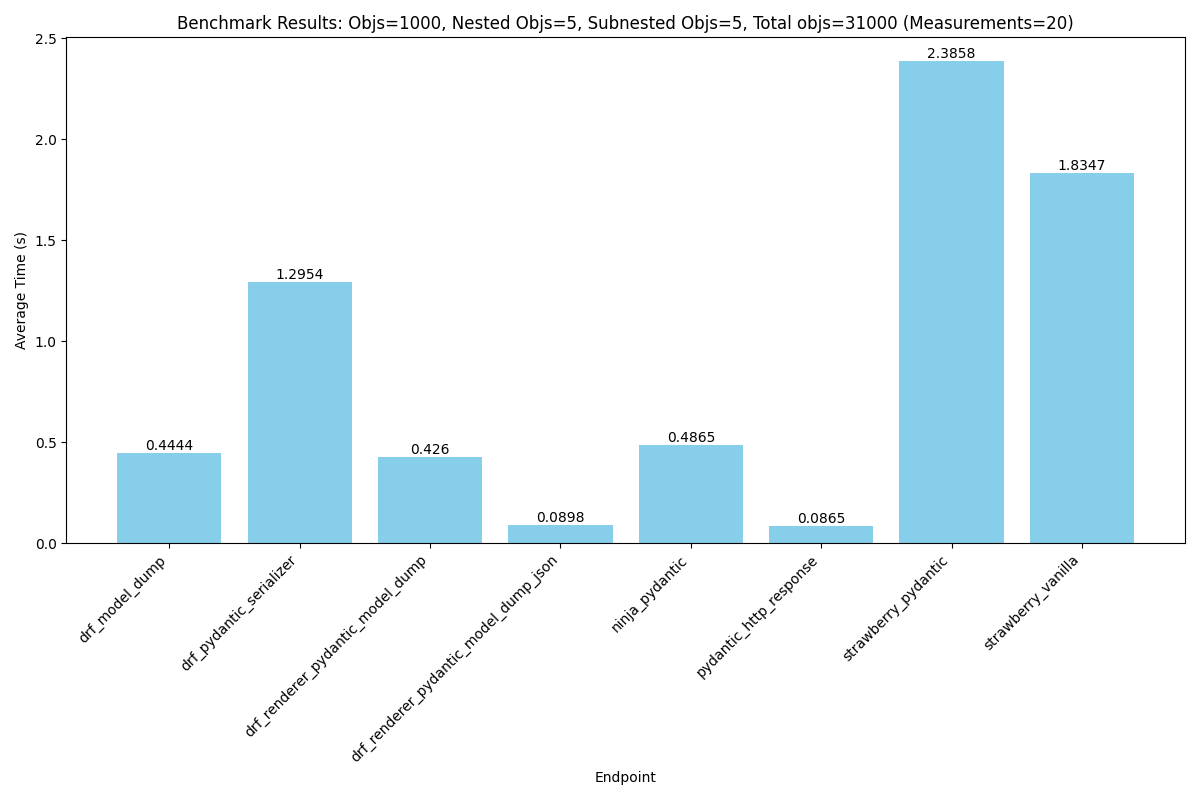
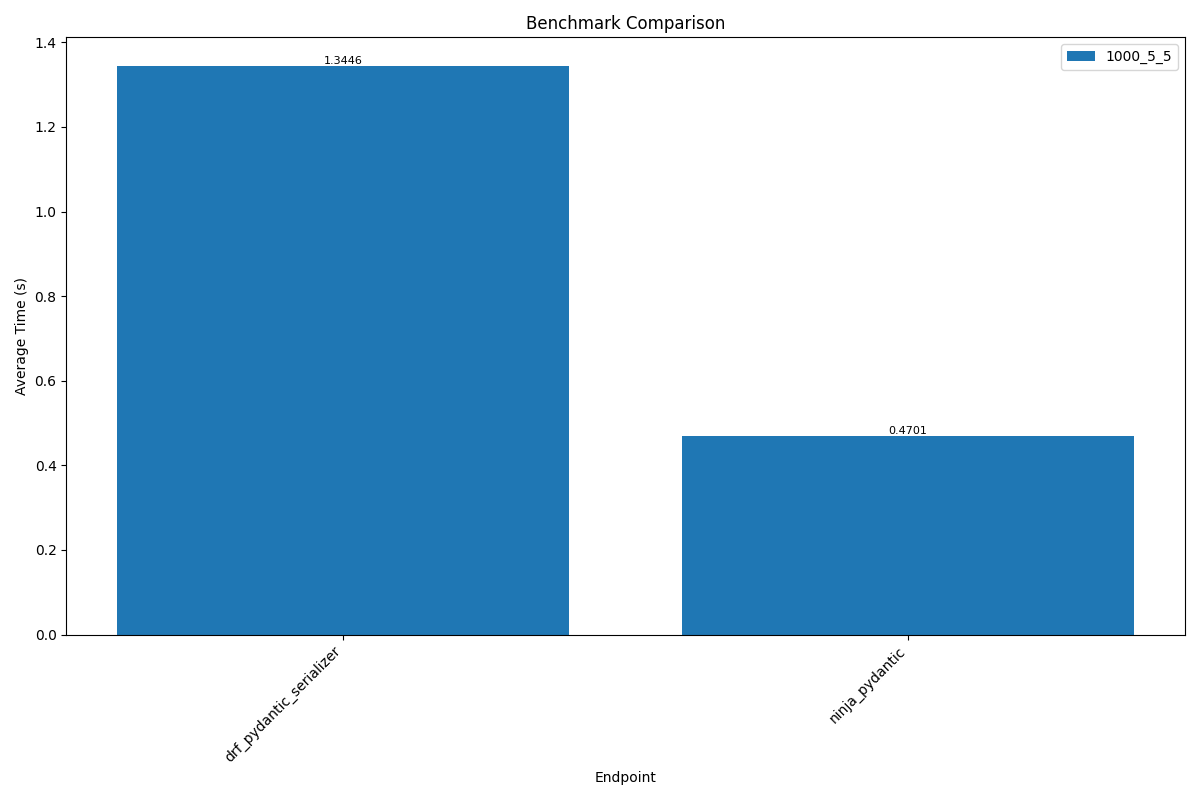
fixes #9: refactor benchmarking process and improve robustness

diff --git a/scripts/generate_chart.py b/scripts/generate_chart.py
@@ -7,107 +7,71 @@ import sys
 import argparse
 
 
-def generate_chart(suffix=None, output_filename=None, input_dir="results"):
-    if suffix:
-        pattern = f"_{suffix}.yaml"
-        files = [f for f in os.listdir(input_dir) if f.endswith(pattern)]
-        if not output_filename:
-            output_filename = f"benchmark_chart_{suffix}.png"
-    else:
-        files = [f for f in os.listdir(input_dir) if f.endswith(".yaml")]
-        if not output_filename:
-            output_filename = "benchmark_chart.png"
+import numpy as np
 
-    if not files:
-        print(
-            f"No files found for suffix: {suffix}"
-            if suffix
-            else f"No yaml files found in {input_dir}/"
-        )
-        return
 
+def load_series_data(files):
     data = []
-    all_sizes = set()
-    num_measured = None
-
-    for filename in files:
-        filepath = os.path.join(input_dir, filename)
+    for filepath in files:
+        if not os.path.exists(filepath):
+            print(f"Warning: File not found: {filepath}")
+            continue
         with open(filepath, "r") as f:
             content = yaml.safe_load(f)
-            average = content.get("average", 0)
-            endpoint = content.get("endpoint", "")
+            data.append(content)
+    return data
 
-            d_size = content.get("dataset_size")
-            dn_size = content.get("dataset_nested_size")
-            dn2_size = content.get("dataset_nested2_size")
-            size_triplet = (d_size, dn_size, dn2_size)
-            all_sizes.add(size_triplet)
 
-            if num_measured is None:
-                num_measured = content.get("num_measured")
+def generate_chart(all_series, series_labels, output_filename=None):
+    if not all_series:
+        print("No data series provided.")
+        return
 
-            data.append(
-                {
-                    "average": average,
-                    "endpoint": endpoint,
-                    "size_triplet": size_triplet,
-                }
-            )
+    if not output_filename:
+        output_filename = "benchmark_chart.png"
 
-    # Sort: alphabetical order by endpoint name, then by size
-    data.sort(key=lambda x: (x["endpoint"], x["size_triplet"]))
+    # Identify all unique endpoints across all series
+    endpoints = set()
+    for series in all_series:
+        for entry in series:
+            endpoints.add(entry.get("endpoint", "unknown"))
+    endpoints = sorted(list(endpoints))
 
-    unique_sizes = sorted(list(all_sizes))
-    all_same_size = len(unique_sizes) == 1
+    # Prepare data for plotting
+    num_series = len(all_series)
+    num_endpoints = len(endpoints)
+    x = np.arange(num_endpoints)
+    width = 0.8 / num_series
 
-    labels = []
-    for d in data:
-        if all_same_size:
-            labels.append(d["endpoint"])
-        else:
-            s = d["size_triplet"]
-            labels.append(f"{d['endpoint']} ({s[0]}_{s[1]}_{s[2]})")
+    fig, ax = plt.subplots(figsize=(12, 8))
 
-    averages = [d["average"] for d in data]
+    for i, (series, label) in enumerate(zip(all_series, series_labels)):
+        mapping = {entry.get("endpoint", "unknown"): entry.get("average", 0) for entry in series}
+        averages = [mapping.get(endpoint, 0) for endpoint in endpoints]
 
-    plt.figure(figsize=(12, 8))
-    bars = plt.bar(labels, averages, color="skyblue")
+        offset = (i - (num_series - 1) / 2) * width
+        bars = ax.bar(x + offset, averages, width, label=label)
 
-    plt.xlabel("Endpoint")
-    plt.ylabel("Average Time (s)")
+        # Add values on top of bars
+        for bar in bars:
+            yval = bar.get_height()
+            if yval > 0:
+                ax.text(
+                    bar.get_x() + bar.get_width() / 2,
+                    yval,
+                    f"{yval:.4f}",
+                    va="bottom",
+                    ha="center",
+                    fontsize=8,
+                    rotation=90 if num_series > 2 else 0
+                )
 
-    if all_same_size:
-        dataset_size, dataset_nested_size, dataset_nested2_size = unique_sizes[0]
-        title_parts = []
-        title_parts.append(f"Objs={dataset_size}")
-        title_parts.append(f"Nested Objs={dataset_nested_size}")
-        title_parts.append(f"Subnested Objs={dataset_nested2_size}")
-        total = (
-            dataset_size
-            + (dataset_size * dataset_nested_size)
-            + (dataset_size * dataset_nested_size * dataset_nested2_size)
-        )
-        title_parts.append(f"Total objs={total}")
-        title = "Benchmark Results: " + ", ".join(title_parts)
-    else:
-        size_strs = [f"({s[0]},{s[1]},{s[2]})" for s in unique_sizes]
-        title = "Benchmark Results: Sizes=" + ", ".join(size_strs)
-
-    if num_measured is not None:
-        title += f" (Measurements={num_measured})"
-    plt.title(title)
-    plt.xticks(rotation=45, ha="right")
-
-    # Add values on top of bars
-    for bar in bars:
-        yval = bar.get_height()
-        plt.text(
-            bar.get_x() + bar.get_width() / 2,
-            yval,
-            round(yval, 4),
-            va="bottom",
-            ha="center",
-        )
+    ax.set_xlabel("Endpoint")
+    ax.set_ylabel("Average Time (s)")
+    ax.set_title("Benchmark Comparison")
+    ax.set_xticks(x)
+    ax.set_xticklabels(endpoints, rotation=45, ha="right")
+    ax.legend()
 
     plt.tight_layout()
     plt.savefig(output_filename)
@@ -117,12 +81,42 @@ def generate_chart(suffix=None, output_filename=None, input_dir="results"):
 if __name__ == "__main__":
     parser = argparse.ArgumentParser(description="Generate benchmark charts.")
     parser.add_argument(
-        "suffix", nargs="?", default=None, help="Suffix to filter benchmark files"
+        "--series",
+        required=True,
+        action="append",
+        nargs="+",
+        help="One or more files for a data series. Can be specified multiple times."
+    )
+    parser.add_argument(
+        "--series-label",
+        action="append",
+        help="Label for each series specified with --series."
     )
     parser.add_argument("--output", help="Output filename for the chart")
-    parser.add_argument(
-        "--input-dir", default="results", help="Directory to look for benchmark files"
-    )
 
     args = parser.parse_args()
-    generate_chart(args.suffix, args.output, args.input_dir)
+
+    all_series_data = []
+    series_labels = []
+
+    for i, series_files in enumerate(args.series):
+        data = load_series_data(series_files)
+        if data:
+            all_series_data.append(data)
+            if args.series_label and i < len(args.series_label):
+                series_labels.append(args.series_label[i])
+            else:
+                # Default label: use size suffix if all files in series have the same one
+                suffixes = set()
+                for f in series_files:
+                    import re
+                    match = re.search(r"_(\d+_\d+_\d+)\.yaml$", f)
+                    if match:
+                        suffixes.add(match.group(1))
+
+                if len(suffixes) == 1:
+                    series_labels.append(list(suffixes)[0])
+                else:
+                    series_labels.append(f"Series {i + 1}")
+
+    generate_chart(all_series_data, series_labels, args.output)

diff --git a/scripts/benchmark.py b/scripts/benchmark.py
@@ -76,7 +76,7 @@ def main():
     print("\nGenerating chart...")
     chart_output = os.path.join(charts_dir, f"endpoints_{args.scenario_name}.png")
 
-    # Use the new generate_chart signature from origin/main
+    # Use the generate_chart signature from origin/main
     all_series_data = [load_series_data(output_files)]
     series_labels = [args.scenario_name]
 
